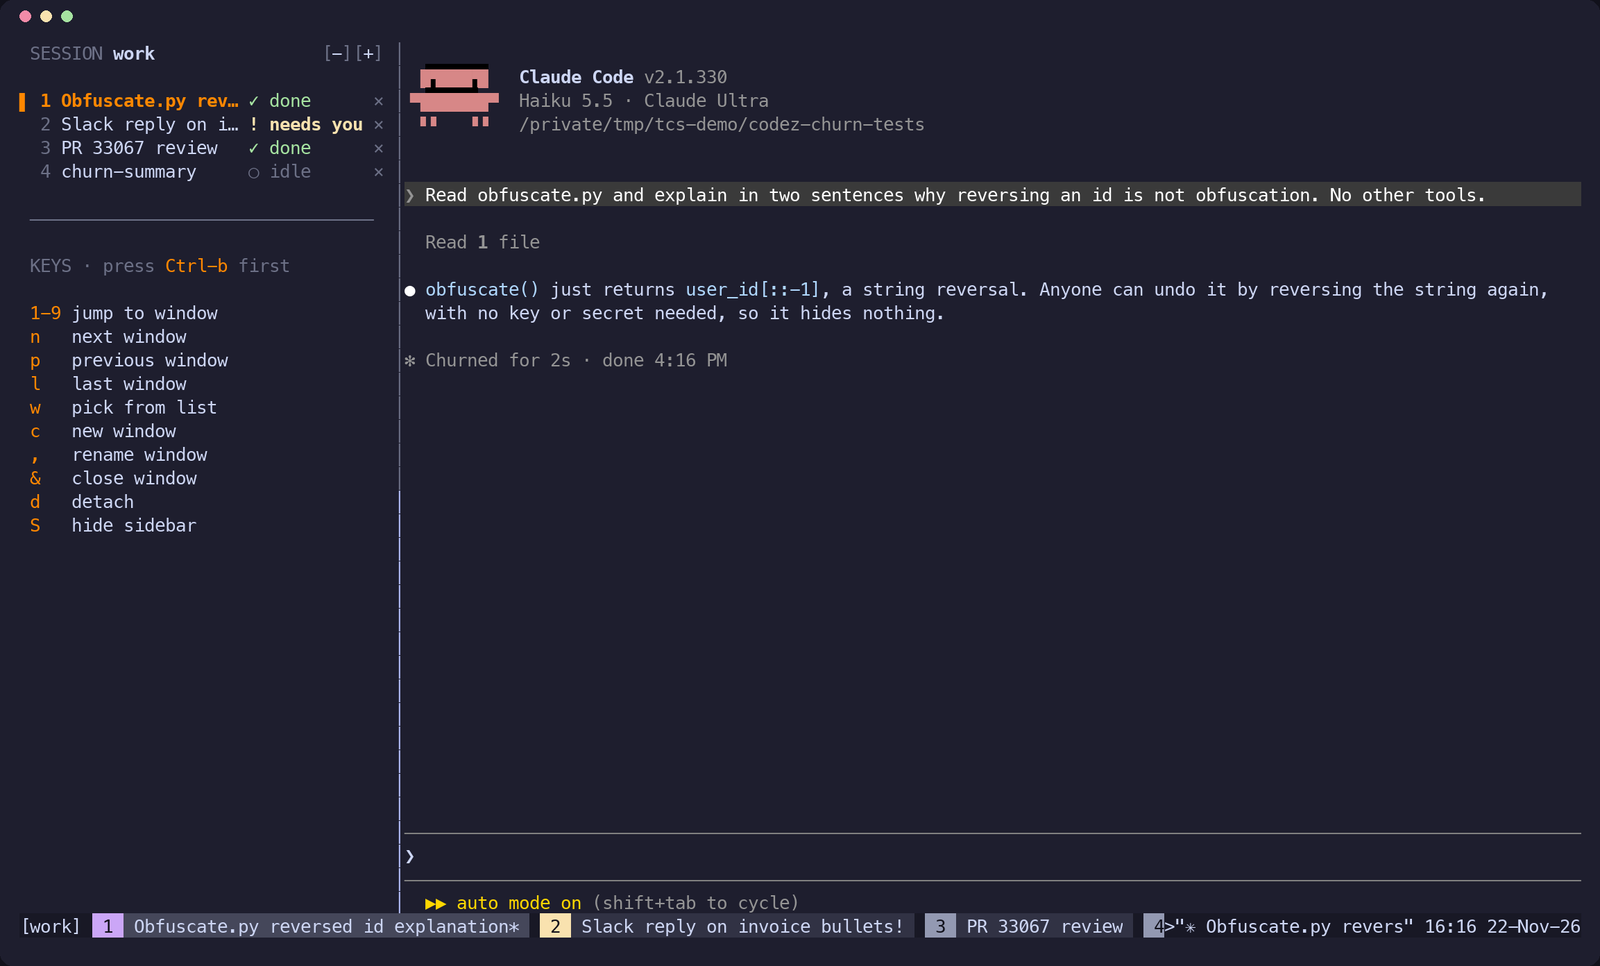
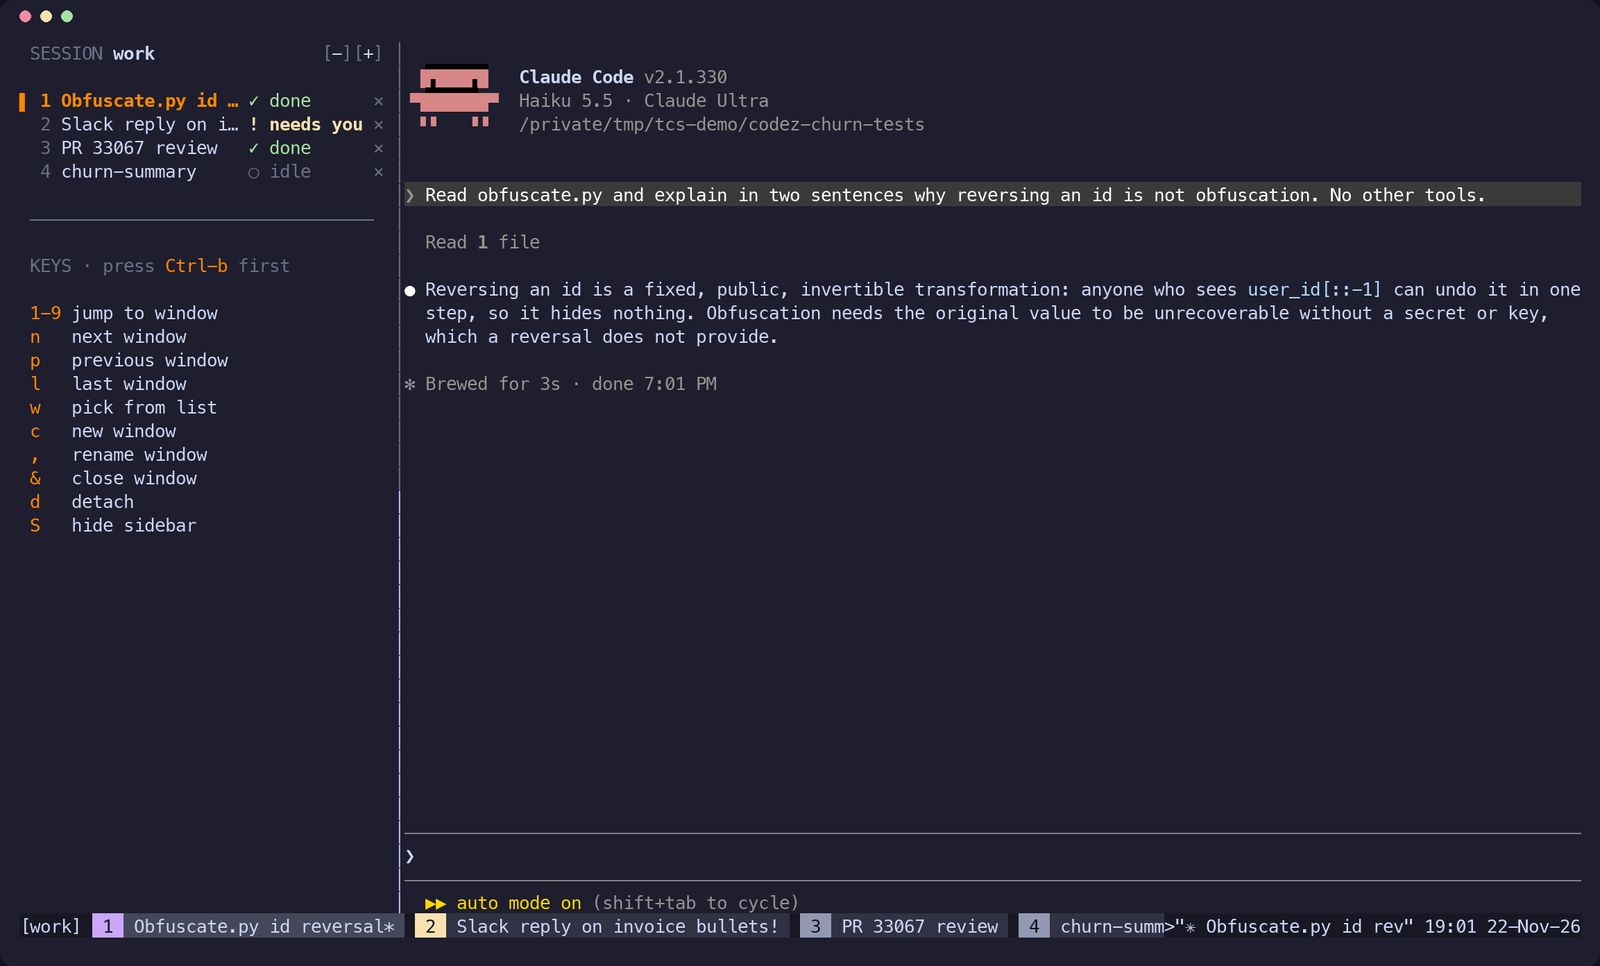
README: sidebar close-up, close prompt, fresh screenshot
Claude-Session: https://claude.ai/code/session_01SxjjF35AirkJeLsu98yX8o

diff --git a/README.md b/README.md
@@ -6,6 +6,24 @@ that session is doing, so you can see which one is waiting for you.
 
 ![The sidebar next to a Claude Code session. Four windows show done, needs you, done and idle, and window 2's tab in the status bar is yellow because its bell rang.](docs/screenshot.png)
 
+## What the sidebar shows
+
+<img align="right" width="300" src="docs/sidebar.png" alt="Close-up of the sidebar: the session name with [−][+] buttons, four window rows with their status and an × each, and a list of tmux keys.">
+
+From the top:
+
+- **Session name**, and `[−]` `[+]` to make the sidebar narrower or wider.
+- **One row per window**: its number, name, Claude Code status and a `×`
+  to close it. The orange bar marks the window you are in.
+- **Status**: `● working` in blue, `! needs you` in yellow, `✓ done` in
+  green, `○ idle` in grey.
+- **Keys**: the tmux keys you use most. Click one, or press `Ctrl-b` and
+  then the key.
+
+<br clear="right">
+
+## Features
+
 - **Status per window**: `working` after you send a prompt, `needs you` when
   Claude asks for permission or asks you a question, `done` when it finishes,
   `idle` when a session has started but has no prompt yet. Windows without
@@ -30,6 +48,11 @@ that session is doing, so you can see which one is waiting for you.
   tab in the status bar turns yellow with a `!`.
 
 Every default tmux key still works. The only new key is `Ctrl-b S`.
+
+Clicking `×` on the "PR 33067 review" row shows this prompt at the bottom.
+`y` closes the window, `n` keeps it:
+
+![tmux asks: Close "PR 33067 review" and stop everything running in it? (y/n)](docs/close-prompt.png)
 
 ## Install
 
